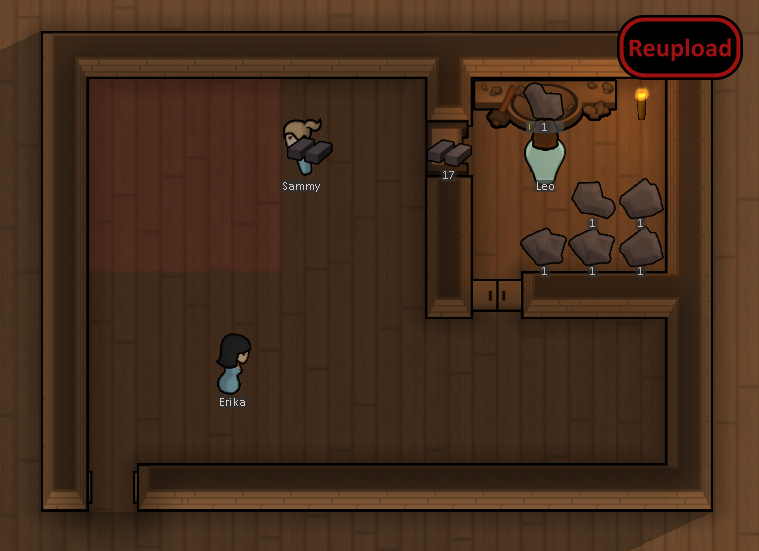
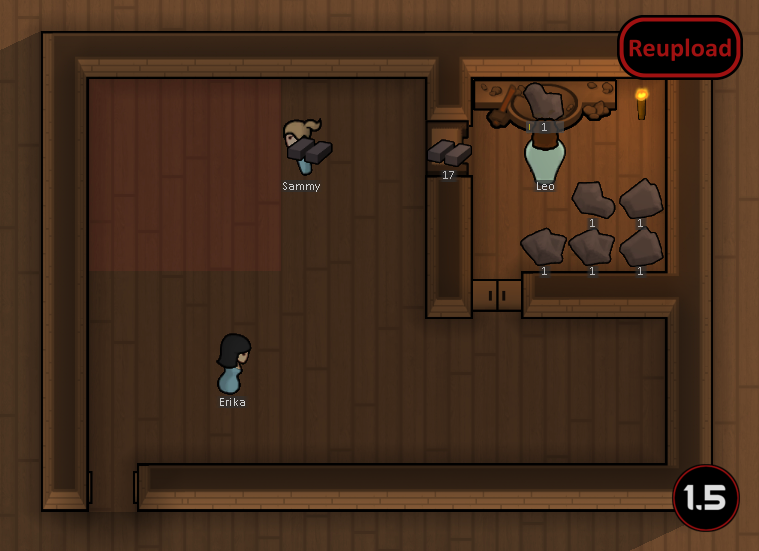
Mod updated for 1.5 and passed autotests

Changed region(s): [[0.8788, 0.833, 1.0, 0.9873]]

diff --git a/README.md b/README.md
@@ -36,12 +36,13 @@ Yes, it should have the same temp. as the walls.
 
 -  See if the the error persists if you just have this mod and its requirements active.
 -  If not, try adding your other mods until it happens again.
--  Post your error-log using https://steamcommunity.com/workshop/filedetails/?id=818773962]HugsLib and command Ctrl+F12
+-  Post your error-log using https://steamcommunity.com/workshop/filedetails/?id=818773962]HugsLib or the standalone https://steamcommunity.com/sharedfiles/filedetails/?id=2873415404]Uploader and command Ctrl+F12
 -  For best support, please use the Discord-channel for error-reporting.
 -  Do not report errors by making a discussion-thread, I get no notification of that.
 -  If you have the solution for a problem, please post it to the GitHub repository.
+-  Use https://github.com/RimSort/RimSort/releases/latest]RimSort to sort your mods
 
 
 
+https://steamcommunity.com/sharedfiles/filedetails/changelog/2603986959]![Image](https://img.shields.io/github/v/release/emipa606/InwallShelf?label=latest%20version&style=plastic&color=9f1111&labelColor=black)
 
-https://steamcommunity.com/sharedfiles/filedetails/changelog/2603986959]Last updated 2023-05-21
